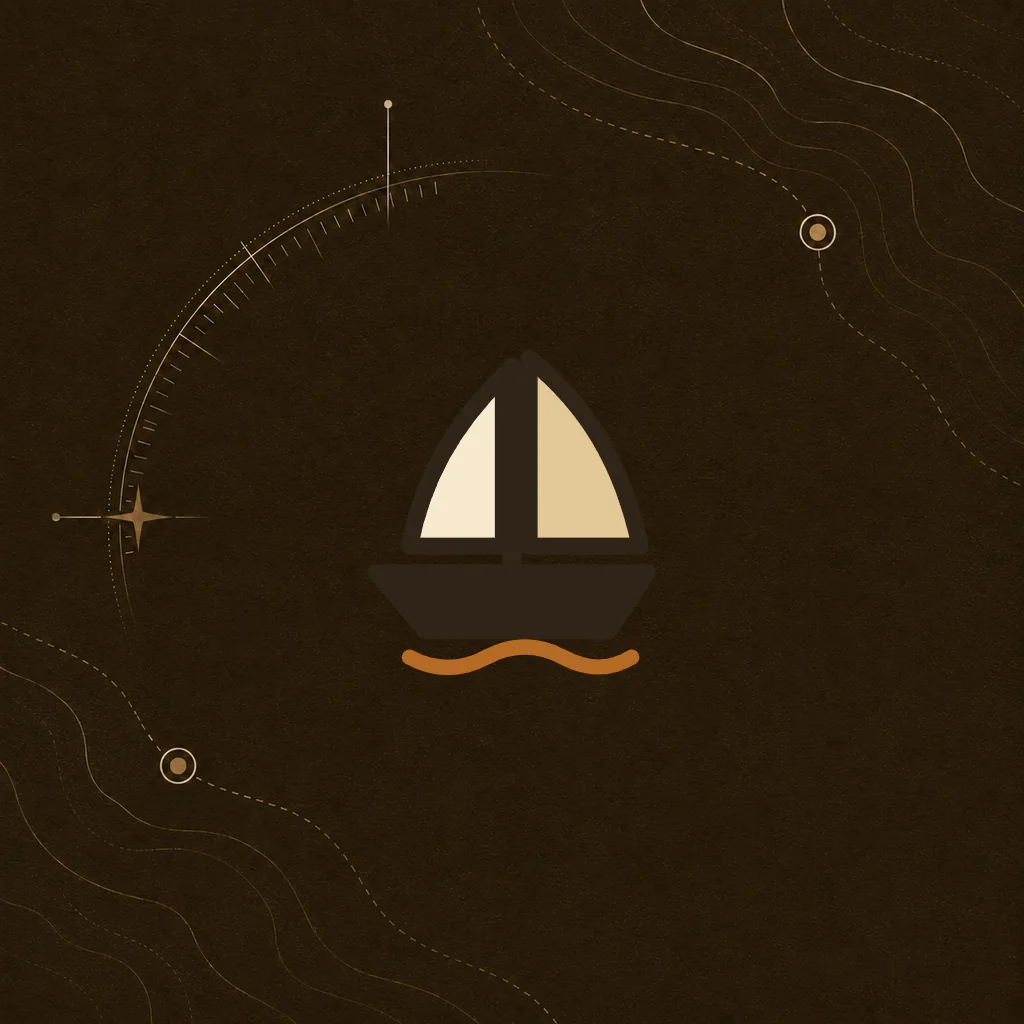
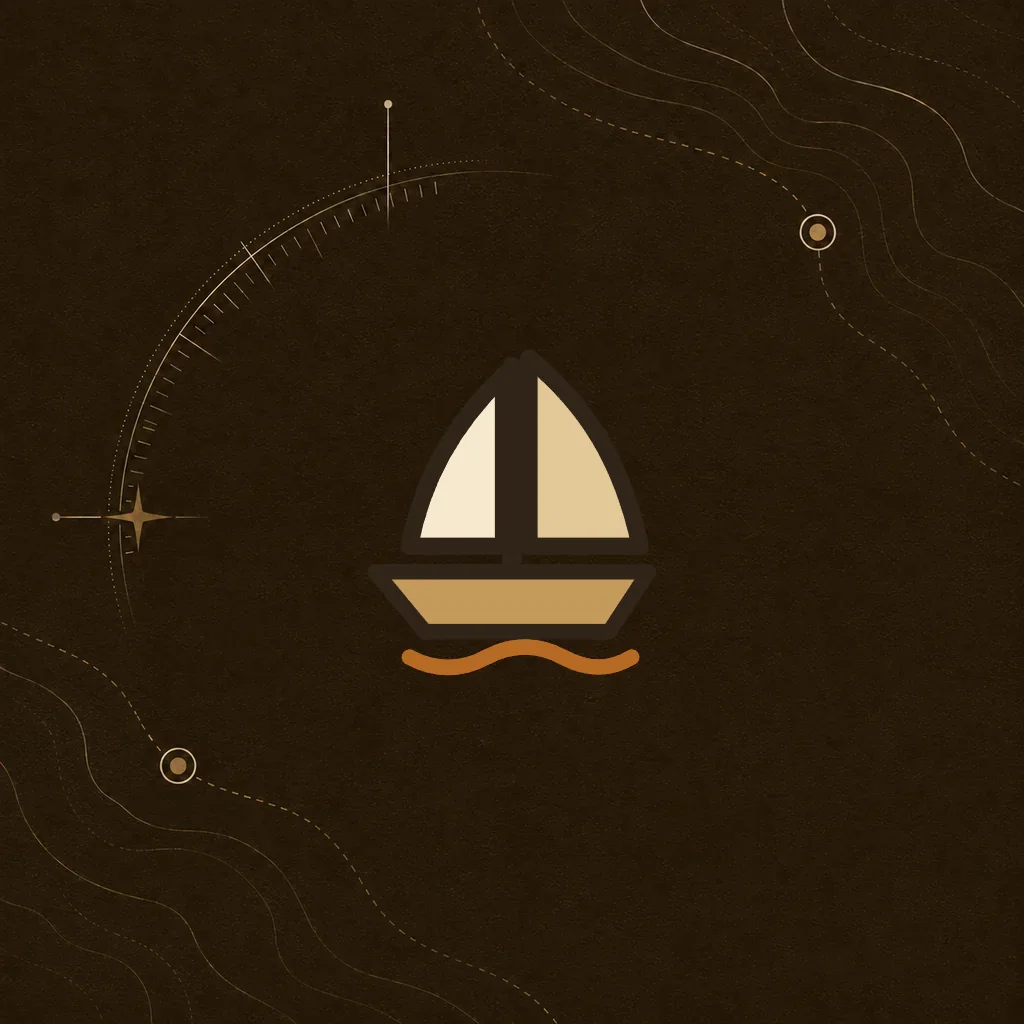
💄fix: improve square brand fallback contrast

Changed region(s): [[0.375, 0.5625, 0.625, 0.625]]

diff --git a/stories/BrandAssets.svelte b/stories/BrandAssets.svelte
@@ -29,8 +29,10 @@
     <h2 id="asset-preview-dark-title">Dark surfaces</h2>
     <div class="asset-grid asset-grid--wide">
       <figure class="asset-frame asset-frame--og">
-        <img src={assets.og} alt="" width="1200" height="630" />
-        <span class="safe-area" aria-hidden="true"></span>
+        <div class="asset-og-preview">
+          <img src={assets.og} alt="" width="1200" height="630" />
+          <span class="safe-area" aria-hidden="true"></span>
+        </div>
         <figcaption>Open Graph · 1200 × 630</figcaption>
       </figure>
       <figure class="asset-frame asset-frame--square">
@@ -42,7 +44,17 @@
           width="1024"
           height="1024"
         />
-        <figcaption>Square · responsive 256 / 512 / 1024</figcaption>
+        <figcaption class="asset-square-caption">
+          <span>Square · responsive 256 / 512 / 1024</span>
+          <span class="asset-square-samples">
+            {#each [48, 96] as size}
+              <span class="asset-square-sample">
+                <img src={assets.square256} alt="" width={size} height={size} style:inline-size={`${size}px`} />
+                <span>{size} px</span>
+              </span>
+            {/each}
+          </span>
+        </figcaption>
       </figure>
       <figure class="asset-frame asset-frame--landscape">
         <img src={assets.landscape} alt="" width="960" height="540" />
@@ -187,6 +199,32 @@
   .asset-frame--missing img { aspect-ratio: 1; }
   .asset-frame--editorial img { aspect-ratio: 4 / 3; }
   .asset-frame--landscape img { aspect-ratio: 16 / 9; }
+
+  .asset-frame--og {
+    align-self: start;
+  }
+
+  .asset-og-preview {
+    position: relative;
+  }
+
+  .asset-square-caption {
+    display: grid;
+    gap: var(--zdp-space-3);
+  }
+
+  .asset-square-samples {
+    align-items: end;
+    display: flex;
+    flex-wrap: wrap;
+    gap: var(--zdp-space-3);
+  }
+
+  .asset-square-sample {
+    display: grid;
+    gap: var(--zdp-space-1);
+    justify-items: center;
+  }
 
   .asset-frame--mark img,
   .asset-frame--missing img,

diff --git a/src/lib/brand-assets.ts b/src/lib/brand-assets.ts
@@ -31,9 +31,9 @@ export const zdpBrandAssets = Object.freeze({
[1 lines of base64/hex data omitted]
   }),
   square: Object.freeze([
[6 lines of base64/hex data omitted]
   ]),
   editorial: Object.freeze([
[1 lines of base64/hex data omitted]

diff --git a/scripts/generate-brand-assets.ts b/scripts/generate-brand-assets.ts
@@ -75,7 +75,8 @@ async function generateSquareAssets(): Promise<void> {
         resolve(repoRoot, 'scripts/browser/render-brand-mark.mjs'),
         outputPath('ship-mark.svg'),
         markPath,
-        String(markSize)
+        String(markSize),
+        'square'
       ]);
 
       runFfmpeg([

diff --git a/docs/BRAND_ASSETS.md b/docs/BRAND_ASSETS.md
@@ -71,6 +71,7 @@ Raster derivatives are encoded without retained source metadata. WebP and JPEG f
 - `brand-square-256.webp`를 256 CSS px보다 크게 확대하지 않는다. 가변 폭 또는 high-DPR 표면은 256/512/1024 `srcset`과 정확한 `sizes`를 제공한다.
 - The OG background contains no text. The consumer owns title, logo lockup, locale, and social metadata composition inside the right safe area.
 - The square raster already contains the official ship mark. Do not overlay another mark.
+- Square fallbacks use a brass hull so the detailed ship stays legible on the dark artwork at 48 and 96 CSS px.
 - 새 배치에서는 `ship-mark-simple-mono.svg`를 기본 심볼로 쓴다. 기존 `ship-mark.svg`는 이미 배포된 상세형 표면과 호환할 때만 유지한다.
 - 제품 헤더와 계정·결제 같은 공용 앱 셸은 공간이 허용되더라도 심볼 단독 표시를 기본으로 한다. `8ailors` 워드마크 lockup은 회사 소개, 캠페인, 넓은 editorial 표면처럼 브랜드명을 반복해서 보여줄 이유가 있는 곳에서만 선택한다.
 - 어두운 고정 배경에는 `ship-mark-simple-inverse.svg`를 쓴다. 단색을 임의 필터나 opacity로 뒤집지 않는다.
@@ -85,7 +86,9 @@ Decorative backgrounds use `alt=""`. When an image itself conveys content, the c
 
 Generated fallback-background source PNGs are deliberately not stored in this repository or included in the npm package. Keep them in the maintainer-owned brand/media asset store. `src/lib/assets/brand/` contains only allowlisted publishable derivatives and approved marks. The approved `rodi-mark-1254.png` is a public compatibility asset paired with the authoritative `rodi-mark.svg`, not a generator source.
 
-When intentionally rebuilding derivatives, materialize the four files below in one external directory and run `bun run brand-assets:generate -- --source-dir <directory>`. Then visually review Storybook before accepting changed output hashes. The generator rejects any source whose SHA-256 differs, uses Lanczos resizing, renders the exact SVG with the repository's existing Chromium runtime, strips source metadata, and writes only the declared derivatives. `bun run brand-assets:check` validates output hashes, dimensions, formats, byte budgets, allowlists, SVG paths, repository/package source exclusion, and the forbidden distorted-logo hash.
+When intentionally rebuilding derivatives, materialize the four files below in one external directory and run `bun run brand-assets:generate -- --source-dir <directory>`. Then visually review Storybook before accepting changed output hashes. The generator rejects any source whose SHA-256 differs, uses Lanczos resizing, renders the ship geometry in Chromium with the square-specific hull color, strips source metadata, and writes only the declared derivatives. `bun run brand-assets:check` validates output hashes, dimensions, formats, byte budgets, allowlists, SVG paths, repository/package source exclusion, and the forbidden distorted-logo hash.
+
+The square contrast refresh used the three existing square composites from `373c287` as its source. It rendered the detailed SVG with the `square` palette at 40% of each canvas width, overlaid the result at the same centered position, and used the generator's WebP encoding settings. The original background PNG remains the input for future full regenerations.
 
 | Source file | Dimensions | SHA-256 |
 | --- | ---: | --- |

diff --git a/.changes/brand-square-legibility.md b/.changes/brand-square-legibility.md
@@ -1,0 +1,5 @@
+---
+bump: patch
+---
+
+- Increased hull contrast in square brand fallbacks so the ship reads at avatar size.
